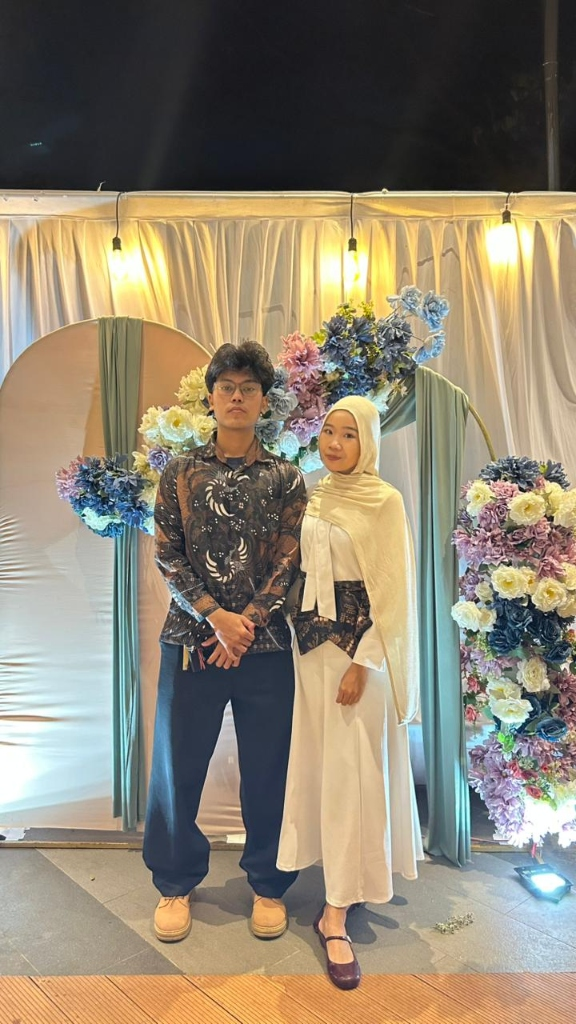
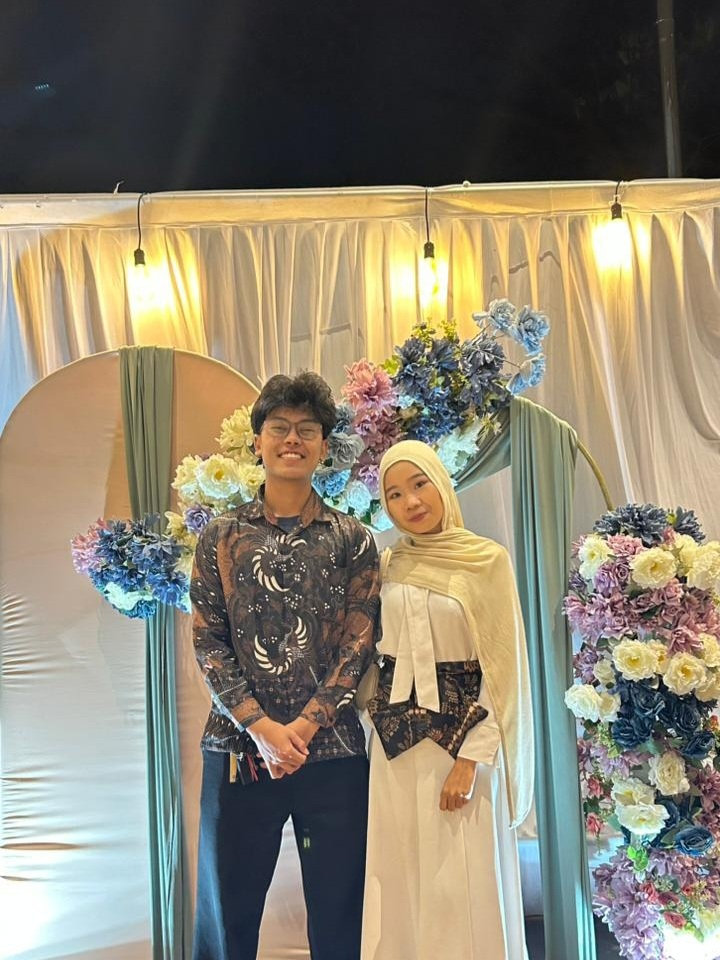
Ganti foto menjadi 5 foto baru dan sesuaikan sinkronisasi chorus drop

diff --git a/index.html b/index.html
@@ -943,7 +943,7 @@
       box-shadow: 0 0 40px rgba(0, 255, 255, 0.2), 0 0 50px rgba(255, 105, 180, 0.2);
       border-radius: 14px;
       width: 100%;
-      max-width: 680px;
+      max-width: 760px;
       max-height: 90vh;
       overflow-y: auto;
       display: flex;
@@ -1002,7 +1002,7 @@
 
     .photo-grid {
       display: grid;
-      grid-template-columns: repeat(4, 1fr);
+      grid-template-columns: repeat(5, 1fr);
       gap: 10px;
     }
 
@@ -1254,9 +1254,10 @@
     <!-- Photo Indicator Bar (Active during Chorus Drop: 23.2s - 38.8s or Preview) -->
     <div class="photo-indicator-bar" id="photoIndicatorBar">
       <button class="photo-slot-btn active" data-slot="0" title="Foto 1: Bathroom Line (23.2s)">📸 1</button>
-      <button class="photo-slot-btn" data-slot="1" title="Foto 2: Versailles (27.2s)">📸 2</button>
+      <button class="photo-slot-btn" data-slot="1" title="Foto 2: Versailles (26.7s)">📸 2</button>
       <button class="photo-slot-btn" data-slot="2" title="Foto 3: Most Alive (31.0s)">📸 3</button>
-      <button class="photo-slot-btn" data-slot="3" title="Foto 4: Kiss Me (34.6s)">📸 4</button>
+      <button class="photo-slot-btn" data-slot="3" title="Foto 4: Kiss Me (34.1s)">📸 4</button>
+      <button class="photo-slot-btn" data-slot="4" title="Foto 5: I Might (36.6s)">📸 5</button>
     </div>
 
     <!-- Player Dock with Equalizer & Controls -->
@@ -1286,7 +1287,7 @@
   <!-- Top Toolbar -->
   <div class="top-toolbar">
     <!-- Primary Always-Visible Buttons on Mobile -->
-    <button class="tool-btn highlight" id="btnOpenPhotoModal" title="Atur 4 foto chorus drop & animasi cekrek">📸 4 Foto Drop</button>
+    <button class="tool-btn highlight" id="btnOpenPhotoModal" title="Atur 5 foto chorus drop & animasi cekrek">📸 5 Foto Drop</button>
     <button class="tool-btn highlight" id="btnMobileMenu" title="Buka menu pengaturan lengkap">⚙ Menu</button>
 
     <!-- Secondary Controls (Collapsible on Mobile, always open on Desktop) -->
@@ -1316,11 +1317,11 @@
   <div class="modal-overlay" id="photoModalOverlay">
     <div class="photo-modal">
       <div class="modal-header">
-        <div class="modal-title">📸 4 FOTO CHORUS DROP</div>
+        <div class="modal-title">📸 5 FOTO CHORUS DROP</div>
         <button class="modal-close-btn" id="btnClosePhotoModal">✕</button>
       </div>
       <div class="modal-desc">
-        4 foto berganti otomatis dengan animasi cekrek-cekrek kamera saat Chorus Drop (23.2s - 38.8s). Kamu bisa ubah atau ganti foto mana saja!
+        5 foto berganti otomatis dengan animasi cekrek-cekrek kamera saat Chorus Drop (23.2s - 38.8s). Kamu bisa ubah atau ganti foto mana saja!
       </div>
 
       <div class="photo-grid">
@@ -1342,7 +1343,7 @@
         <!-- Slot 2 -->
         <div class="photo-card" id="cardSlot1">
           <div class="card-thumb-wrap">
-            <img id="thumb1" src="photo2.png" alt="Foto 2" class="card-thumb" />
+            <img id="thumb1" src="photo2.jpg" alt="Foto 2" class="card-thumb" />
             <span class="card-badge">2 • 26.7s</span>
           </div>
           <div class="card-info">
@@ -1357,7 +1358,7 @@
         <!-- Slot 3 -->
         <div class="photo-card" id="cardSlot2">
           <div class="card-thumb-wrap">
-            <img id="thumb2" src="photo3.jpg" alt="Foto 3" class="card-thumb" />
+            <img id="thumb2" src="photo3.png" alt="Foto 3" class="card-thumb" />
             <span class="card-badge">3 • 31.0s</span>
           </div>
           <div class="card-info">
@@ -1372,7 +1373,7 @@
         <!-- Slot 4 -->
         <div class="photo-card" id="cardSlot3">
           <div class="card-thumb-wrap">
-            <img id="thumb3" src="photo4.jpg" alt="Foto 4" class="card-thumb" />
+            <img id="thumb3" src="photo4.png" alt="Foto 4" class="card-thumb" />
             <span class="card-badge">4 • 34.1s</span>
           </div>
           <div class="card-info">
@@ -1383,10 +1384,25 @@
             <button class="card-btn-action preview" id="btnPreviewSlot3">👁 Lihat</button>
           </div>
         </div>
+
+        <!-- Slot 5 -->
+        <div class="photo-card" id="cardSlot4">
+          <div class="card-thumb-wrap">
+            <img id="thumb4" src="photo5.jpg" alt="Foto 5" class="card-thumb" />
+            <span class="card-badge">5 • 36.6s</span>
+          </div>
+          <div class="card-info">
+            <div class="card-lyric">"And I Might"</div>
+          </div>
+          <div class="card-btn-row">
+            <button class="card-btn-action change" id="btnChangeSlot4">📁 Ganti</button>
+            <button class="card-btn-action preview" id="btnPreviewSlot4">👁 Lihat</button>
+          </div>
+        </div>
       </div>
 
       <div class="modal-actions-bar">
-        <button class="modal-btn primary" id="btnPickAllFiles">⚡ Ganti Sekaligus (Pilih 4 Foto)</button>
+        <button class="modal-btn primary" id="btnPickAllFiles">⚡ Ganti Sekaligus (Pilih 5 Foto)</button>
         <button class="modal-btn" id="btnTestShutterModal">📸 Tes Cekrek</button>
         <button class="modal-btn" id="btnToggleSoundModal">🔊 Suara: ON</button>
         <button class="modal-btn" id="btnResetPhotosModal">↺ Reset Default</button>
@@ -1397,6 +1413,7 @@
       <input type="file" id="slotPicker1" accept="image/*" style="display:none;" />
       <input type="file" id="slotPicker2" accept="image/*" style="display:none;" />
       <input type="file" id="slotPicker3" accept="image/*" style="display:none;" />
+      <input type="file" id="slotPicker4" accept="image/*" style="display:none;" />
       <input type="file" id="batchPicker" accept="image/*" multiple style="display:none;" />
     </div>
   </div>
@@ -1554,24 +1571,26 @@
     let userScale = 1.0;     
 
     // ----------------------------------------------------------------------
-    // 4 DEFAULT PHOTOS & CAMERA SHUTTER STATE (Exact Lyrics Vocal Sync)
+    // 5 DEFAULT PHOTOS & CAMERA SHUTTER STATE (Exact Lyrics Vocal Sync)
     // ----------------------------------------------------------------------
     const DEFAULT_PHOTO_URLS = [
       "photo1.jpg",
-      "photo2.png",
-      "photo3.jpg",
-      "photo4.jpg"
+      "photo2.jpg",
+      "photo3.png",
+      "photo4.png",
+      "photo5.jpg"
     ];
 
     const photoSlotMeta = [
       { index: 0, start: 23.2, end: 26.7, lyric: "All Pressed Up In The Bathroom Line" },
       { index: 1, start: 26.7, end: 31.0, lyric: "Lookin' Like An Angel On The Walls Of Versailles" },
       { index: 2, start: 31.0, end: 34.1, lyric: "The Most Alive I've Ever Been" },
-      { index: 3, start: 34.1, end: 38.8, lyric: "But Kiss Me And I Might..." }
+      { index: 3, start: 34.1, end: 36.6, lyric: "But Kiss Me..." },
+      { index: 4, start: 36.6, end: 38.8, lyric: "And I Might..." }
     ];
 
     let photoDataUrls = [...DEFAULT_PHOTO_URLS];
-    let photoImageObjects = [new Image(), new Image(), new Image(), new Image()];
+    let photoImageObjects = [new Image(), new Image(), new Image(), new Image(), new Image()];
 
     function loadAllPhotos() {
       photoDataUrls.forEach((url, idx) => {
@@ -2015,7 +2034,7 @@
       // 4. Viewfinder HUD
       if (cameraHud) {
         if (cameraHudText) {
-          cameraHudText.textContent = `● SHUTTER [0${slotIndex + 1}/04] • 1/250s`;
+          cameraHudText.textContent = `● SHUTTER [0${slotIndex + 1}/05] • 1/250s`;
         }
         cameraHud.classList.remove("active");
         void cameraHud.offsetWidth;
@@ -2041,7 +2060,7 @@
       });
 
       // Highlight active card in modal if open
-      for (let i = 0; i < 4; i++) {
+      for (let i = 0; i < 5; i++) {
         const card = document.getElementById(`cardSlot${i}`);
         if (card) {
           if (i === slotIndex) {
@@ -2054,7 +2073,7 @@
     }
 
     // ----------------------------------------------------------------------
-    // 7. PHOTO MANAGER MODAL & 4-PHOTO CONTROLS
+    // 7. PHOTO MANAGER MODAL & 5-PHOTO CONTROLS
     // ----------------------------------------------------------------------
     // Modal Open/Close
     btnOpenPhotoModal.addEventListener("click", () => {
@@ -2086,20 +2105,20 @@
       showToast(shutterSoundEnabled ? "🔊 Efek Suara Cekrek Aktif" : "🔇 Efek Suara Cekrek Dinonaktifkan");
     });
 
-    // Reset to Default 4 Photos
+    // Reset to Default 5 Photos
     btnResetPhotosModal.addEventListener("click", () => {
       photoDataUrls = [...DEFAULT_PHOTO_URLS];
       loadAllPhotos();
-      for (let i = 0; i < 4; i++) {
+      for (let i = 0; i < 5; i++) {
         const thumb = document.getElementById(`thumb${i}`);
         if (thumb) thumb.src = photoDataUrls[i];
       }
-      showToast("↺ 4 Foto di-reset ke foto pasangan default!");
+      showToast("↺ 5 Foto di-reset ke foto default!");
       previewSingleSlot(0);
     });
 
     // Individual Slot "Ganti" & "Lihat"
-    for (let i = 0; i < 4; i++) {
+    for (let i = 0; i < 5; i++) {
       const slotIndex = i;
       const btnChange = document.getElementById(`btnChangeSlot${slotIndex}`);
       const btnPrevSlot = document.getElementById(`btnPreviewSlot${slotIndex}`);
@@ -2182,7 +2201,7 @@
         return;
       }
 
-      const limit = Math.min(imageFiles.length, 4);
+      const limit = Math.min(imageFiles.length, 5);
       for (let i = 0; i < limit; i++) {
         const slot = i;
         const file = imageFiles[i];
@@ -2209,7 +2228,7 @@
     document.querySelectorAll(".photo-slot-btn").forEach(btn => {
       btn.addEventListener("click", (e) => {
         const slot = parseInt(btn.getAttribute("data-slot"), 10);
-        const targetTimes = [23.2, 26.7, 31.0, 34.1];
+        const targetTimes = [23.2, 26.7, 31.0, 34.1, 36.6];
 
         if (audio.duration && !isPreviewForced) {
           audio.currentTime = targetTimes[slot];
@@ -2610,11 +2629,13 @@
         }
       }
 
-      // 2b. 4-Photo Chorus Drop Synchronization (23.2s - 38.8s) with "Cekrek" Camera Snap
+      // 2b. 5-Photo Chorus Drop Synchronization (23.2s - 38.8s) with "Cekrek" Camera Snap
       if (curTime >= 23.2 && curTime < 38.8) {
         if (!isPreviewForced) {
           let targetIndex = 0;
-          if (curTime >= 34.1) {
+          if (curTime >= 36.6) {
+            targetIndex = 4;
+          } else if (curTime >= 34.1) {
             targetIndex = 3;
           } else if (curTime >= 31.0) {
             targetIndex = 2;
